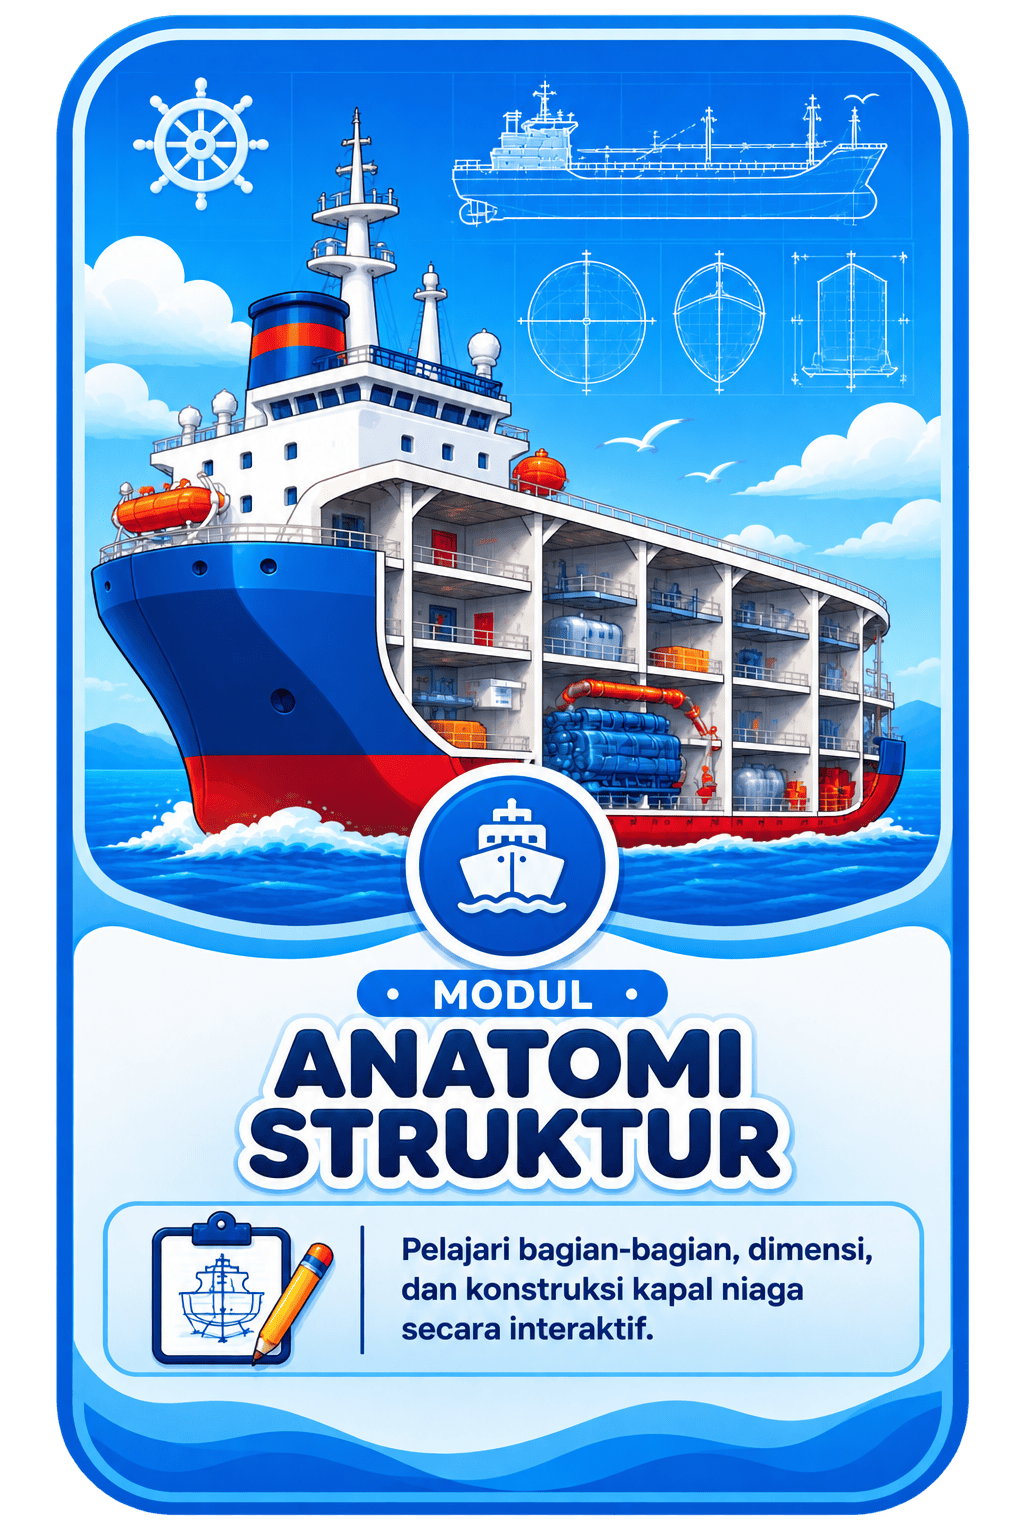
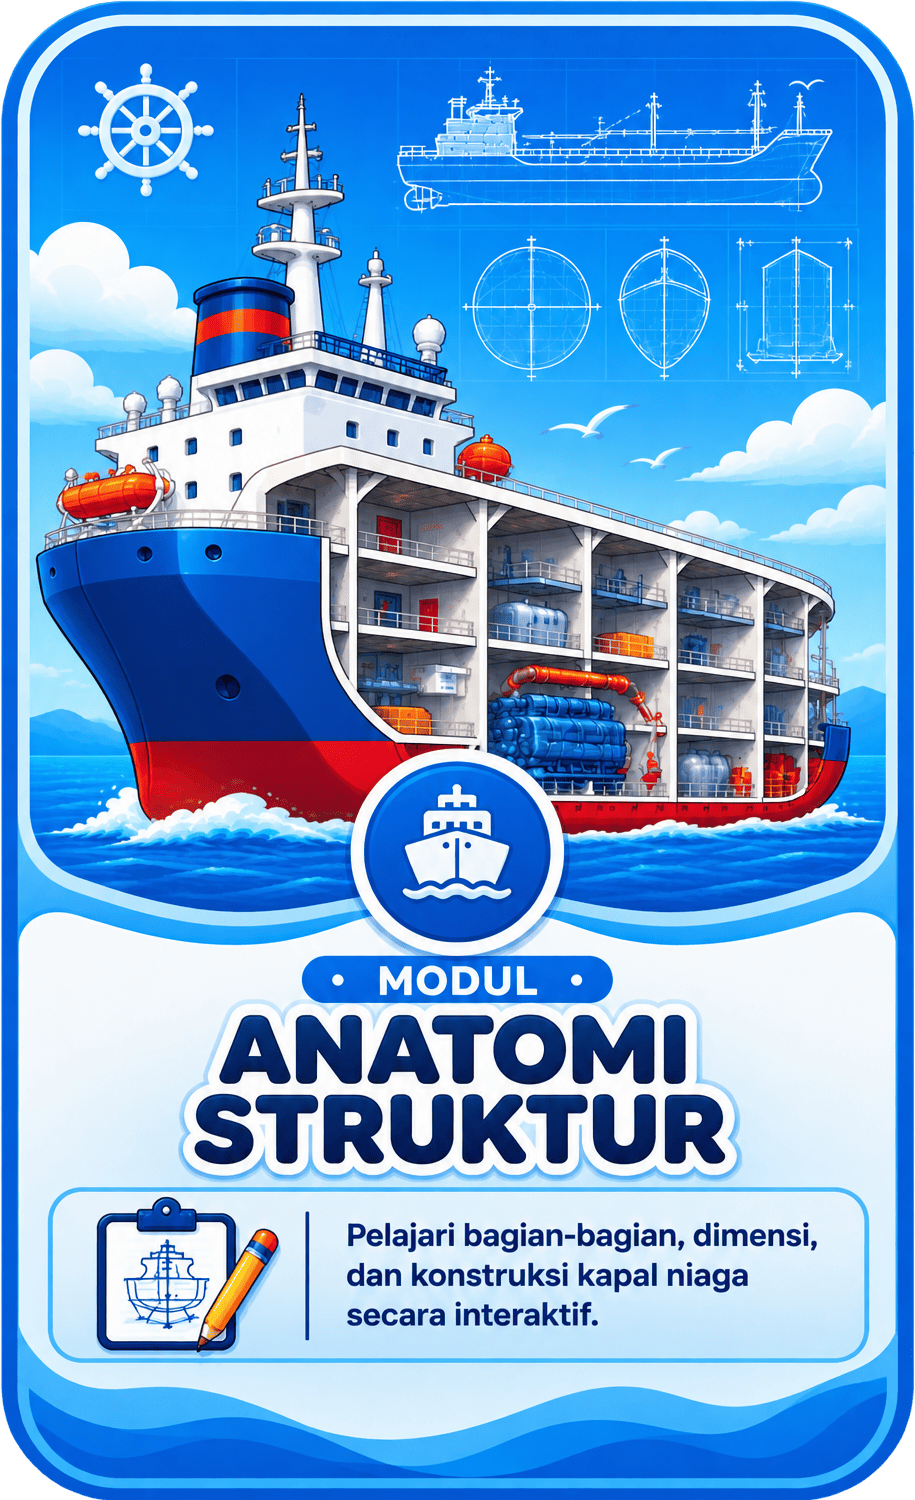
[update] - update scale card menu - update rounded lock menu

diff --git a/src/game/scenes/MainMenu/MenuCard.ts b/src/game/scenes/MainMenu/MenuCard.ts
@@ -160,7 +160,7 @@ export class MenuCard {
 
         const left = x - width / 2;
         const top = y - height / 2;
-        const overlayRadius = 36;
+        const overlayRadius = 45;
 
         this.lockOverlay.fillStyle(0x000000, 0.2);
         this.lockOverlay.fillRoundedRect(left, top, width, height, overlayRadius);
